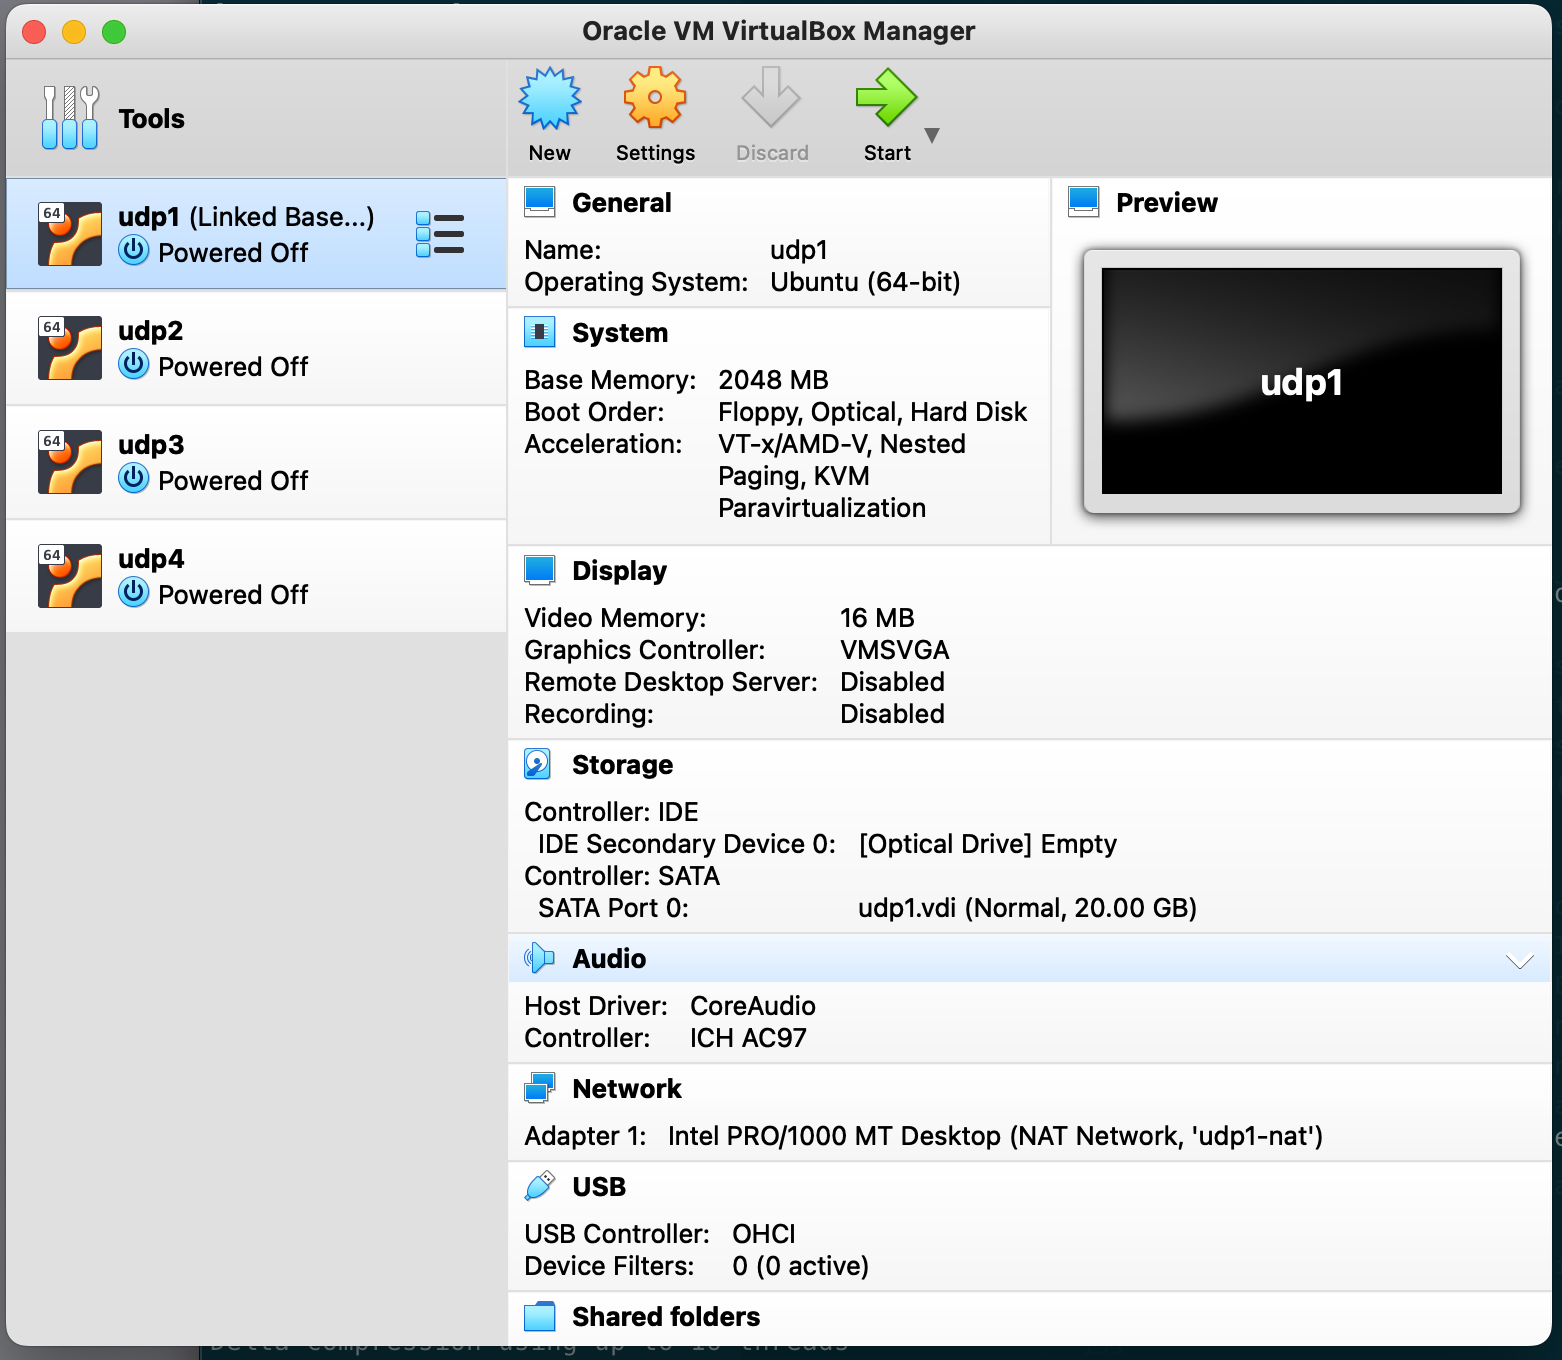
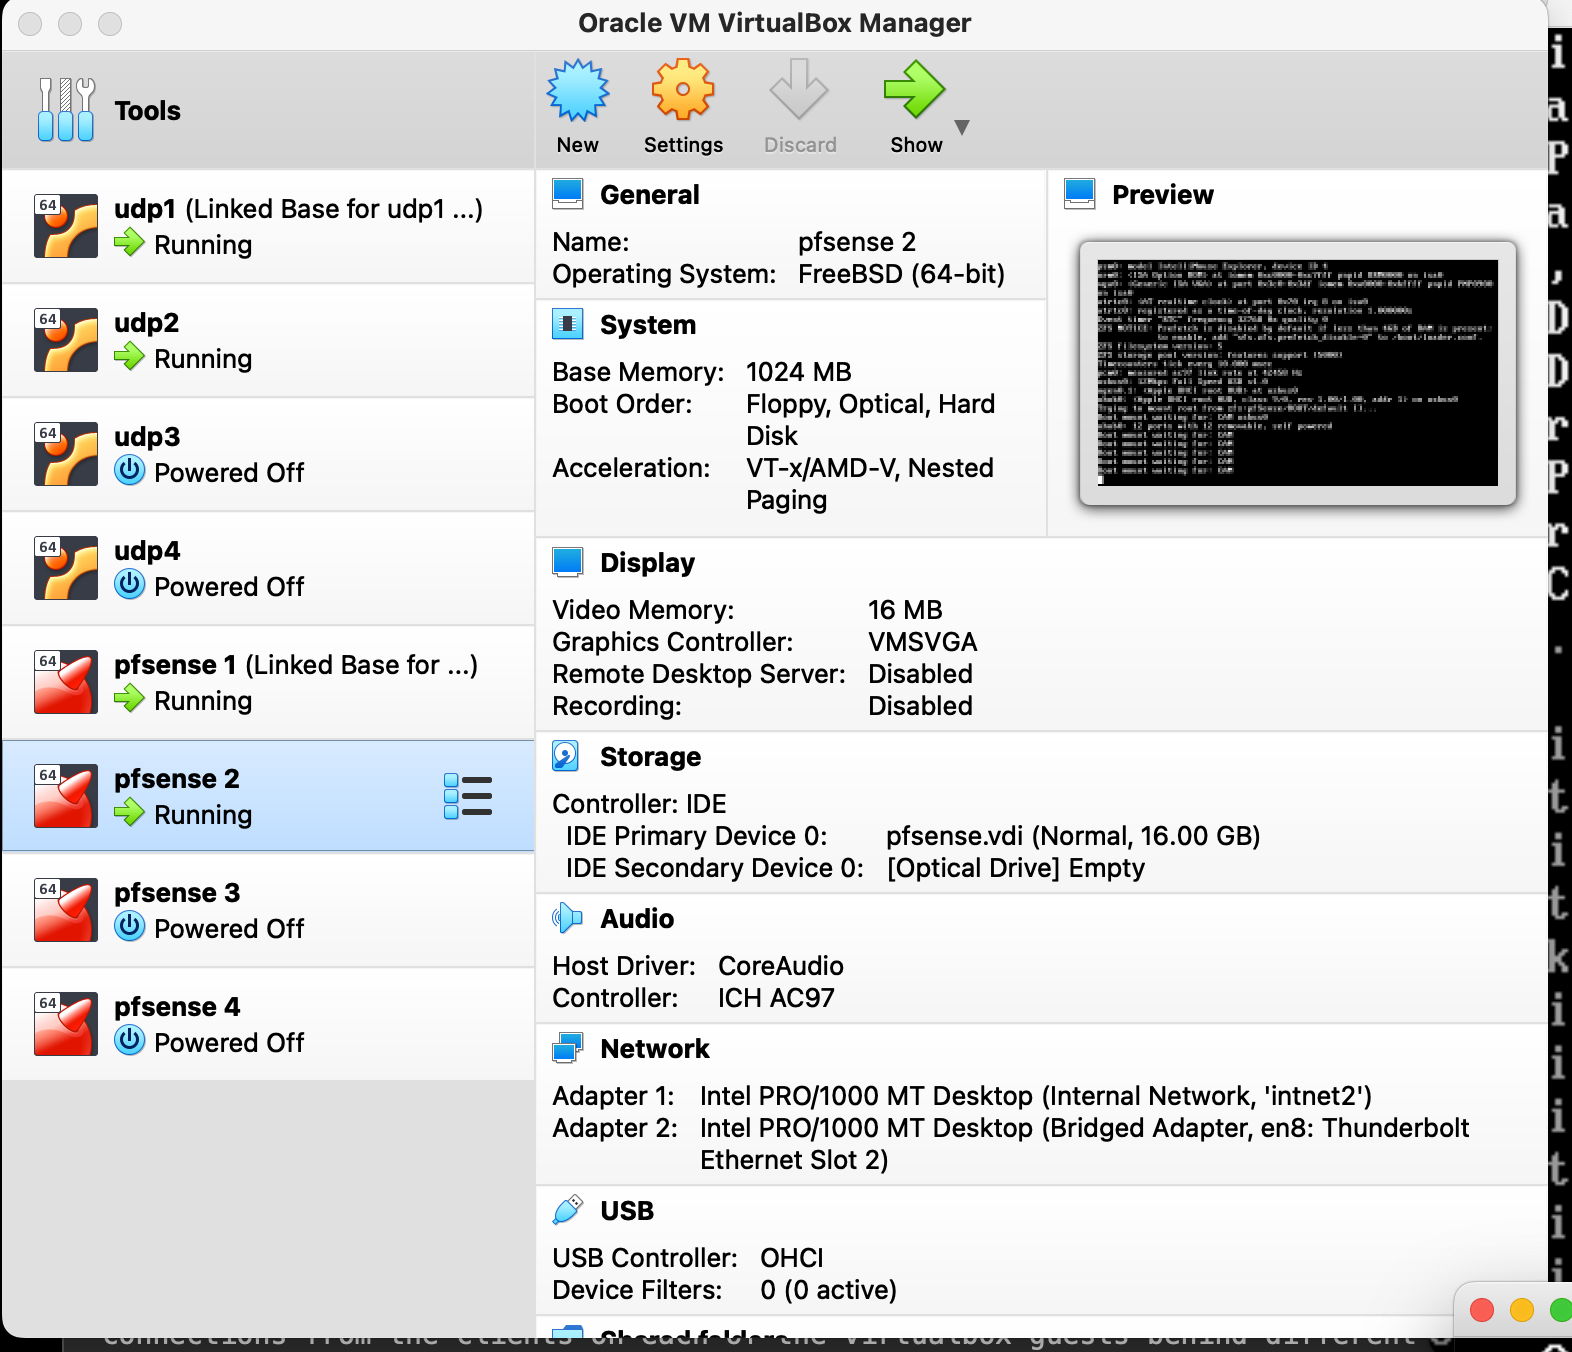
updated documentation with new test bed info, etc

Changed region(s): [[0.0, 0.0, 1.0, 1.0]]

diff --git a/NATPunchClient/NATPunchClient.cs b/NATPunchClient/NATPunchClient.cs
@@ -96,6 +96,8 @@ public class NATPunchClient
                 NetDataWriter writer = new NetDataWriter();
                 writer.Put("Hello?");
                 peer.Send(writer, DeliveryMethod.ReliableOrdered);
+                writer.Put("Are we good?");
+                peer.Send(writer, DeliveryMethod.ReliableOrdered);
             }
             else
             {
@@ -119,7 +121,7 @@ public class NATPunchClient
                     break;
                 }
 
-                if (key == ConsoleKey.A)
+                if (key == ConsoleKey.A) // TODO: instead of this capture keystrokes and send once punch has been made...
                 {
                     Console.WriteLine("Client stopped");
                     _client.DisconnectPeer(_client.FirstPeer, new byte[] { 1, 2, 3, 4 });

diff --git a/NatPunchFacillitator/Facilitator.cs b/NatPunchFacillitator/Facilitator.cs
@@ -218,7 +218,7 @@ namespace FNNP
         {
             int ServerPort = DefaultServerPort;
             string ServerAddr = DefaultServerAddr;
-            Console.WriteLine("NATPunchServer <serverPort> <serverAddress>");
+            Console.WriteLine("NatPunchFacillitator <serverPort> <serverAddress>");
             int junk;
             // ugly, but whatever, I'll make it pretty later
             if (args.Length > 0)

diff --git a/readme.md b/readme.md
@@ -2,17 +2,19 @@
 
 NAT punch server based on LiteNetLib for TugBoat/Fishnet use.  Example command line client included for experimentation and testing.
 
-Implementing: [STUN/TURN/ICE](https://anyconnect.com/stun-turn-ice/), but without the relay fallback.  Future plans are to [encorporate UPNP](https://github.com/lontivero/Open.NAT) and create a relay server as well and add fallback with a ICE moderator.
+Clients identify as either a game host or a game client and present a token/key that identifies the game they want to join.  The Facillitator introduces them to the server for that game and visa versa and the library punches the holes for p2p.  This does not require either the game server or the game clients to be free of NAT or port forwarded.
+
+Implementing: [STUN/TURN/ICE](https://anyconnect.com/stun-turn-ice/), but without the TURN fallback for now.  Future plans are to [encorporate UPNP](https://github.com/lontivero/Open.NAT) and create a relay server for TURN as well and add fallback with a ICE moderator.
 
 ### Dependency
 [https://github.com/RevenantX/LiteNetLib](https://github.com/RevenantX/LiteNetLib)
 ## Proposed Approach
 
-1. <del>Done: Create a standalone NAT Punchthrough Server based on LiteNetLib</del>
+1. <del>Done: Create a standalone NAT Punchthrough Facillitator/Server based on LiteNetLib</del>
 1. <del>Done: Create a client for testing</del>
 1. <del>Done: Manually test multiple game servers and clients.</del>
 	- <del>multiple clients and session keys</del>
-	- pass traffic to test punchthrough
+	- <del>pass traffic to test punchthrough</del>
 1. Create Automated Tests against the punchthrough server that:
 	- Test multiple clients
 	- Test multiple session keys
@@ -26,15 +28,17 @@ Implementing: [STUN/TURN/ICE](https://anyconnect.com/stun-turn-ice/), but withou
 
 ## Getting started doing dev
 
-The repo is organized as a Solution, with multiple projects.  It should import into any C# IDE without a problem.  
+The repo is organized as a Solution, with multiple projects.  It should import into any C# IDE without a problem.  The LiteNetLib needs to be added as a source submodule due to differing platform compile flags (at least that is what the docs said).
 
+- After you have cloned the repo you will want to do the following commands in the root of the project to pull in the LiteNetLib.
+	- ```git fetch; git submodule init; git submodule update```
 - Please .gitignore your IDE poop if you plan on submitting a merge request
 - Build however you like building 
 	- ```dotnet build``` from the project root works just fine
 - Run the Facillitator either in your IDE or via command line
-	1. ```cd NATPunchServer```
-	1. ```dotnet run NATPunchServer -- <serverPort> <serverAddress>```
-	1. *or run with defaults:* ```dotnet run NATPunchServer```
+	1. ```cd NATPunchFacillitator```
+	1. ```dotnet run NATPunchFacillitator -- <serverPort> <serverAddress>```
+	1. *or run with defaults:* ```dotnet run```
 
 - Run the client either in your idea or via command line
 	- you must run at least two clients with the same token, one in client mode the other in game server mode, to see the punchthrough conversation happen
@@ -46,26 +50,25 @@ The repo is organized as a Solution, with multiple projects.  It should import i
 ![Example output from server](images/Facillitator-example.png)
 ![Example outut from client](images/Client-example.png)
 
-## Setting up a multiple NAT network test environment using VirtualBox 'NAT Networks'
+## Setting up a multiple NAT network test environment using VirtualBox, Ubuntu Server and pfSense (router software).
 
->
-> :x: **Warning**
-> These instructions are already obsolete.  New instructions forthcoming.
-> 
 
 You can [set up](https://www.nakivo.com/blog/virtualbox-network-setting-guide/) multiple [VirtualBox](https://www.oracle.com/virtualization/virtualbox/) VMs, each using connection type of 'Nat Network', different NAT Networks for each VM and run your Faccilitator on your regular host to similate things.  You can then make connections from the clients on each of the virtualbox guests behind different NAT Networks to that facilitator.
 
 [Decent Guide to setting up NAT Networks using VirtualBox](https://www.techbeatly.com/how-to-create-and-use-natnetwork-in-virtualbox/)
 
-How I do it:
+How I do it with VirtualBox (free):
 
 - use [ubuntu linux server](https://ubuntu.com/download/server) and the command line mode for the clients for testing.
-- create n number of NAT Networks with different network ip blocks
-- create a base disk image [with dotnet](https://docs.microsoft.com/en-us/dotnet/core/install/linux-ubuntu#2204) and base vm to clone
-- clone the git project and compile
-- clone the base vm using linked n times.
-- assign a different NAT Network to each of the vms
-- run tests manually from command line on each of the vms as needed.
+	- create n number of Internal Networks with different network ip blocks
+	- create a base disk image [with dotnet](https://docs.microsoft.com/en-us/dotnet/core/install/linux-ubuntu#2204) and base vm to clone
+	- clone the git project and compile
+	- clone the base vm using linked n times.
+	- assign a different Internal Network to each of the vms
+- Create n number of pfsense community edition (free) vms using the same 'create a base, then linked clones of it' technique.
+	- place the LAN interface of the pfsense on one of the private networks and the second WAN interface in bridged mode ( this will assign a independant ip address on your network, which is required for accurate testing.
+	- **Important** pfSense is a Symetrical NAT router by default, but it can be configured to not be. [Do so](https://www.aligrant.com/web/blog/2017-01-05_pfsense_nat_traversal_and_games), unless you are testing symetrical nat detection.
+	- run tests manually from command line on each of the vms as needed.
 
 ![VirtualBox clones](images/VirtualBox-clones.png)
 ![VirtualBox networks](images/VirtualBox-networks.png)
